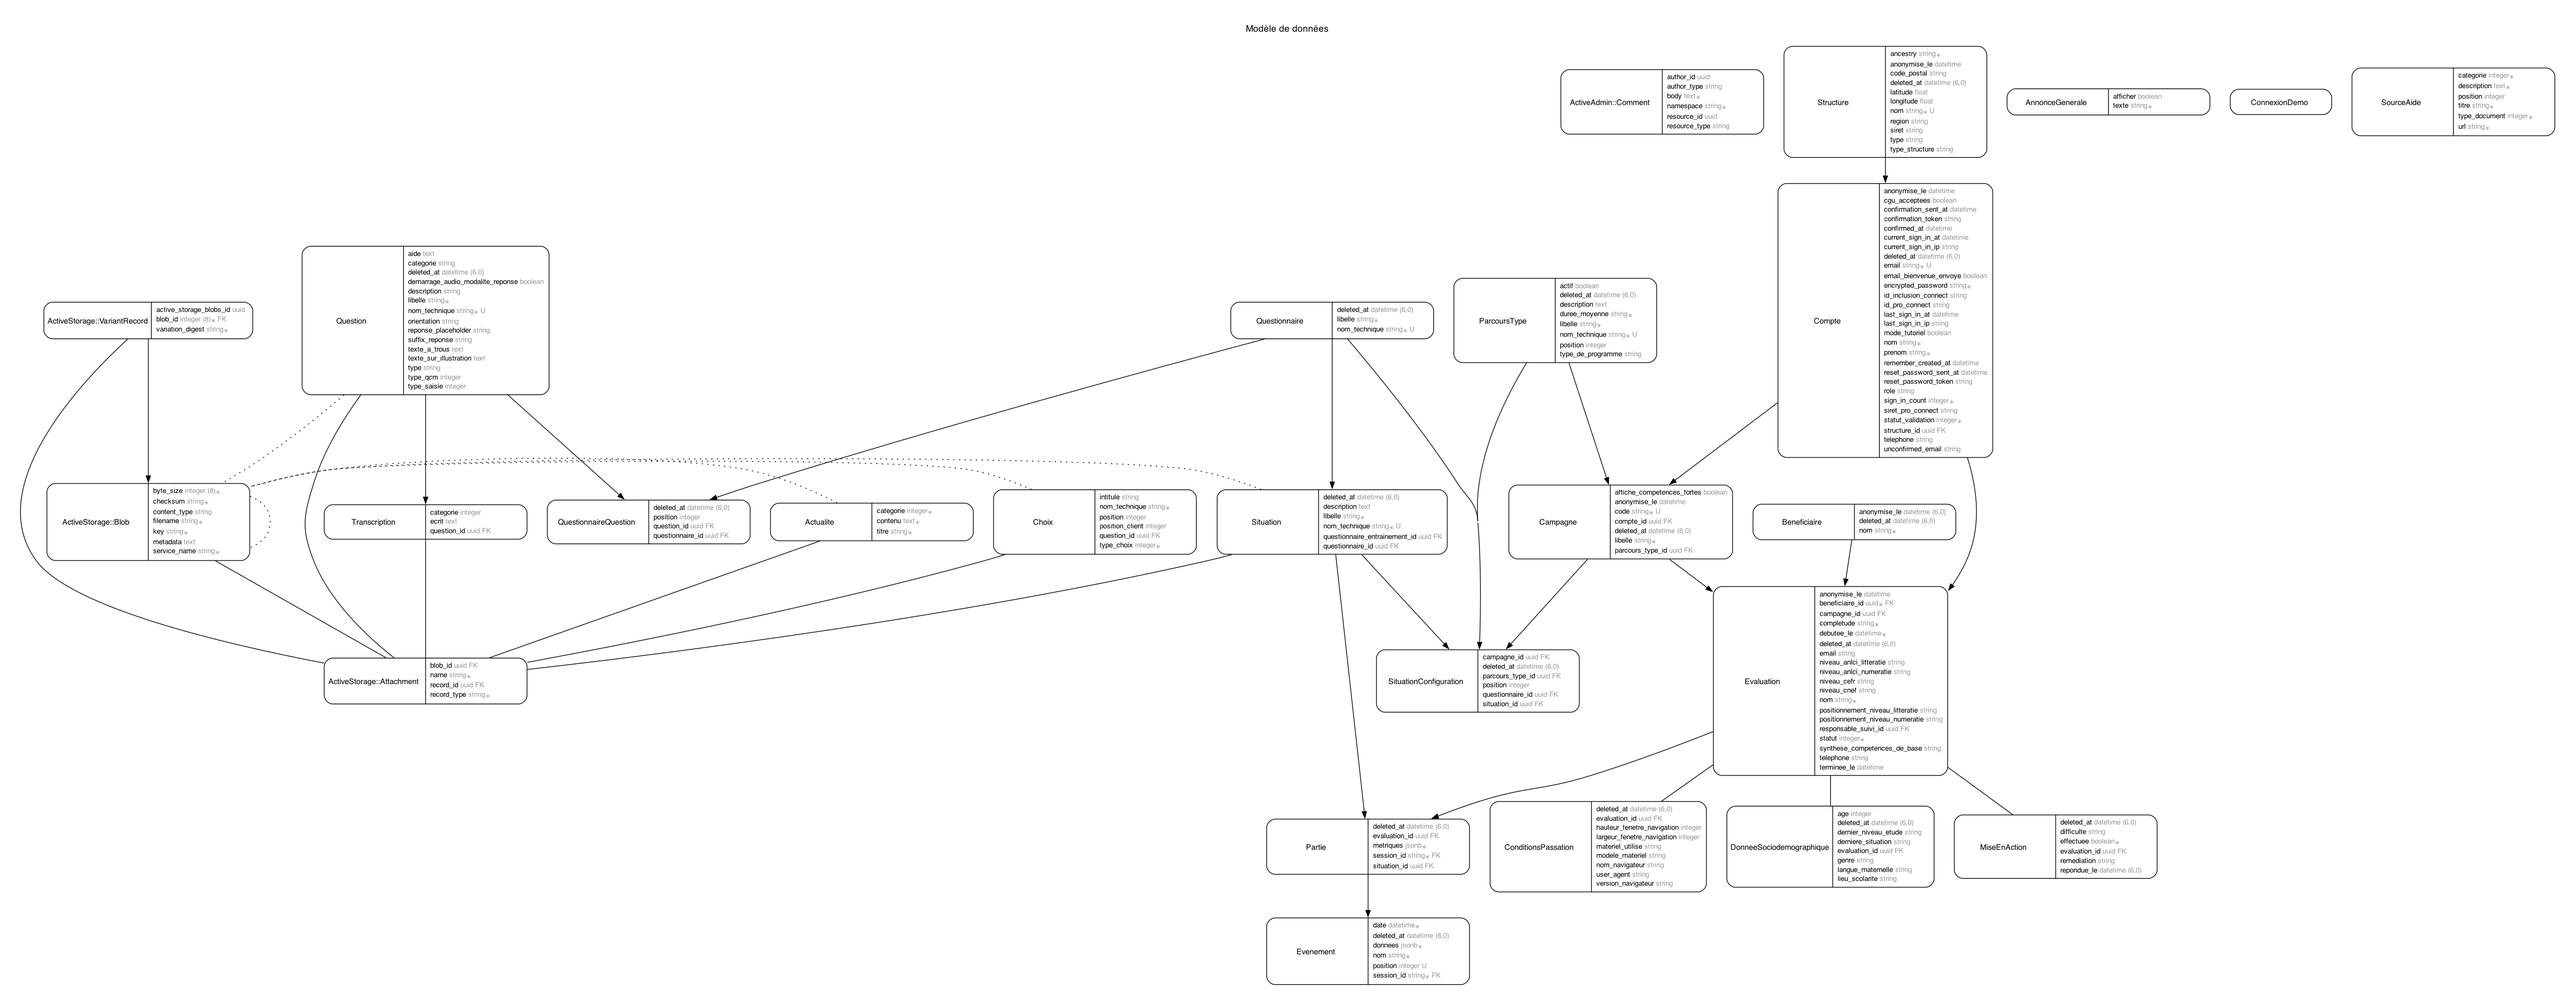
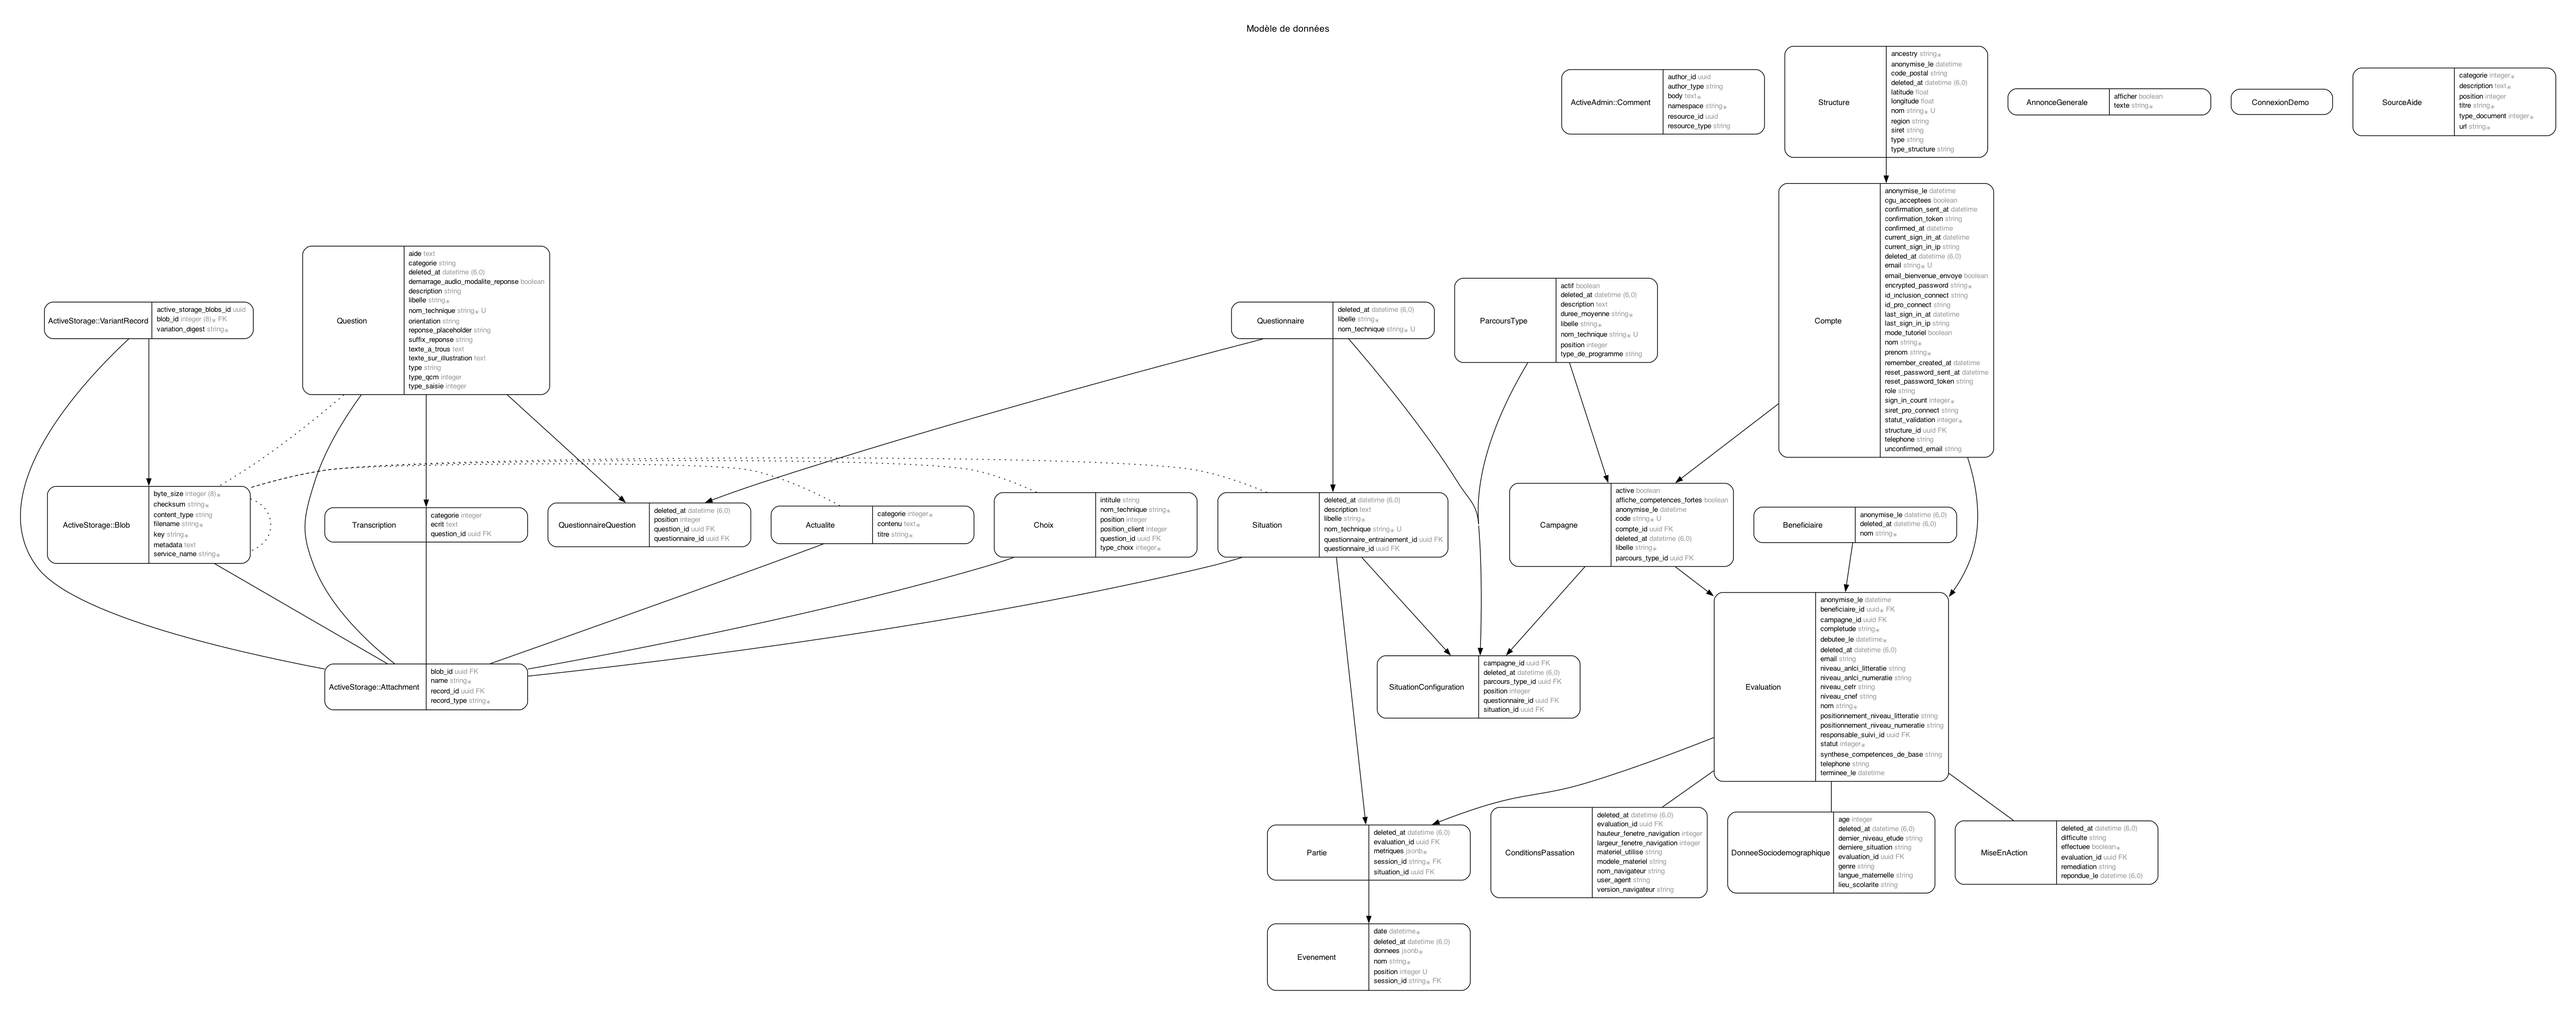
✨ Seul les campagnes active sont proposées au jeu
https://captive-team.atlassian.net/browse/EVA-457

diff --git a/db/schema.rb b/db/schema.rb
@@ -10,7 +10,7 @@
 #
 # It's strongly recommended that you check this file into your version control system.
 
-ActiveRecord::Schema[7.2].define(version: 2025_05_26_063034) do
+ActiveRecord::Schema[7.2].define(version: 2025_05_27_075158) do
   # These are extensions that must be enabled in order to support this database
   enable_extension "pgcrypto"
   enable_extension "plpgsql"
@@ -93,6 +93,8 @@ ActiveRecord::Schema[7.2].define(version: 2025_05_26_063034) do
     t.uuid "parcours_type_id"
     t.datetime "anonymise_le"
     t.datetime "deleted_at"
+    t.boolean "active", default: true
+    t.index ["active"], name: "index_campagnes_on_active"
     t.index ["code"], name: "index_campagnes_on_code", unique: true
     t.index ["compte_id"], name: "index_campagnes_on_compte_id"
     t.index ["deleted_at"], name: "index_campagnes_on_deleted_at"

diff --git a/spec/requests/campagnes_spec.rb b/spec/requests/campagnes_spec.rb
@@ -27,10 +27,23 @@ describe 'Campagne API', type: :request do
       expect(resultat['code']).to eq('ETE21')
     end
 
-    it "retourne une 404 lorsqu'elle n'existe pas" do
-      get '/api/campagnes/inconnue'
+    context "quand la campagne n'existe pas" do
+      it "retourne une 404" do
+        code_inconnue = 'INCONNUE'
+        get "/api/campagnes/#{code_inconnue}"
 
-      expect(response).to have_http_status(:not_found)
+        expect(response).to have_http_status(:not_found)
+      end
+    end
+
+    context "quand la campagne n'est pas active" do
+      it "retourne une 404" do
+        campagne.update!(active: false)
+
+        get "/api/campagnes/#{campagne.code}"
+
+        expect(response).to have_http_status(:not_found)
+      end
     end
 
     context 'quand la campagne a des situations' do

diff --git a/app/models/campagne.rb b/app/models/campagne.rb
@@ -40,6 +40,7 @@ class Campagne < ApplicationRecord
               MAX(evaluations.created_at) AS date_derniere_evaluation')
   }
   scope :par_code, ->(code) { where code: code.upcase }
+  scope :active, -> { where(active: true) }
   scope :avec_situation, lambda { |situation|
     joins(:situations_configurations).where(situations_configurations: {
                                               situation_id: situation&.id

diff --git a/app/controllers/api/campagnes_controller.rb b/app/controllers/api/campagnes_controller.rb
@@ -10,7 +10,7 @@ module Api
 
     def trouve_campagne
       questions_incluses = %i[questionnaires_questions questions]
-      @campagne = Campagne.includes(
+      @campagne = Campagne.active.includes(
         situations_configurations: [
           { questionnaire: questions_incluses },
           { situation: [

diff --git a/db/migrate/20250527075158_ajoute_active_pour_campagnes.rb b/db/migrate/20250527075158_ajoute_active_pour_campagnes.rb
@@ -1,0 +1,6 @@
+class AjouteActivePourCampagnes < ActiveRecord::Migration[7.2]
+  def change
+    add_column :campagnes, :active, :boolean, default: true
+    add_index :campagnes, :active
+  end
+end
